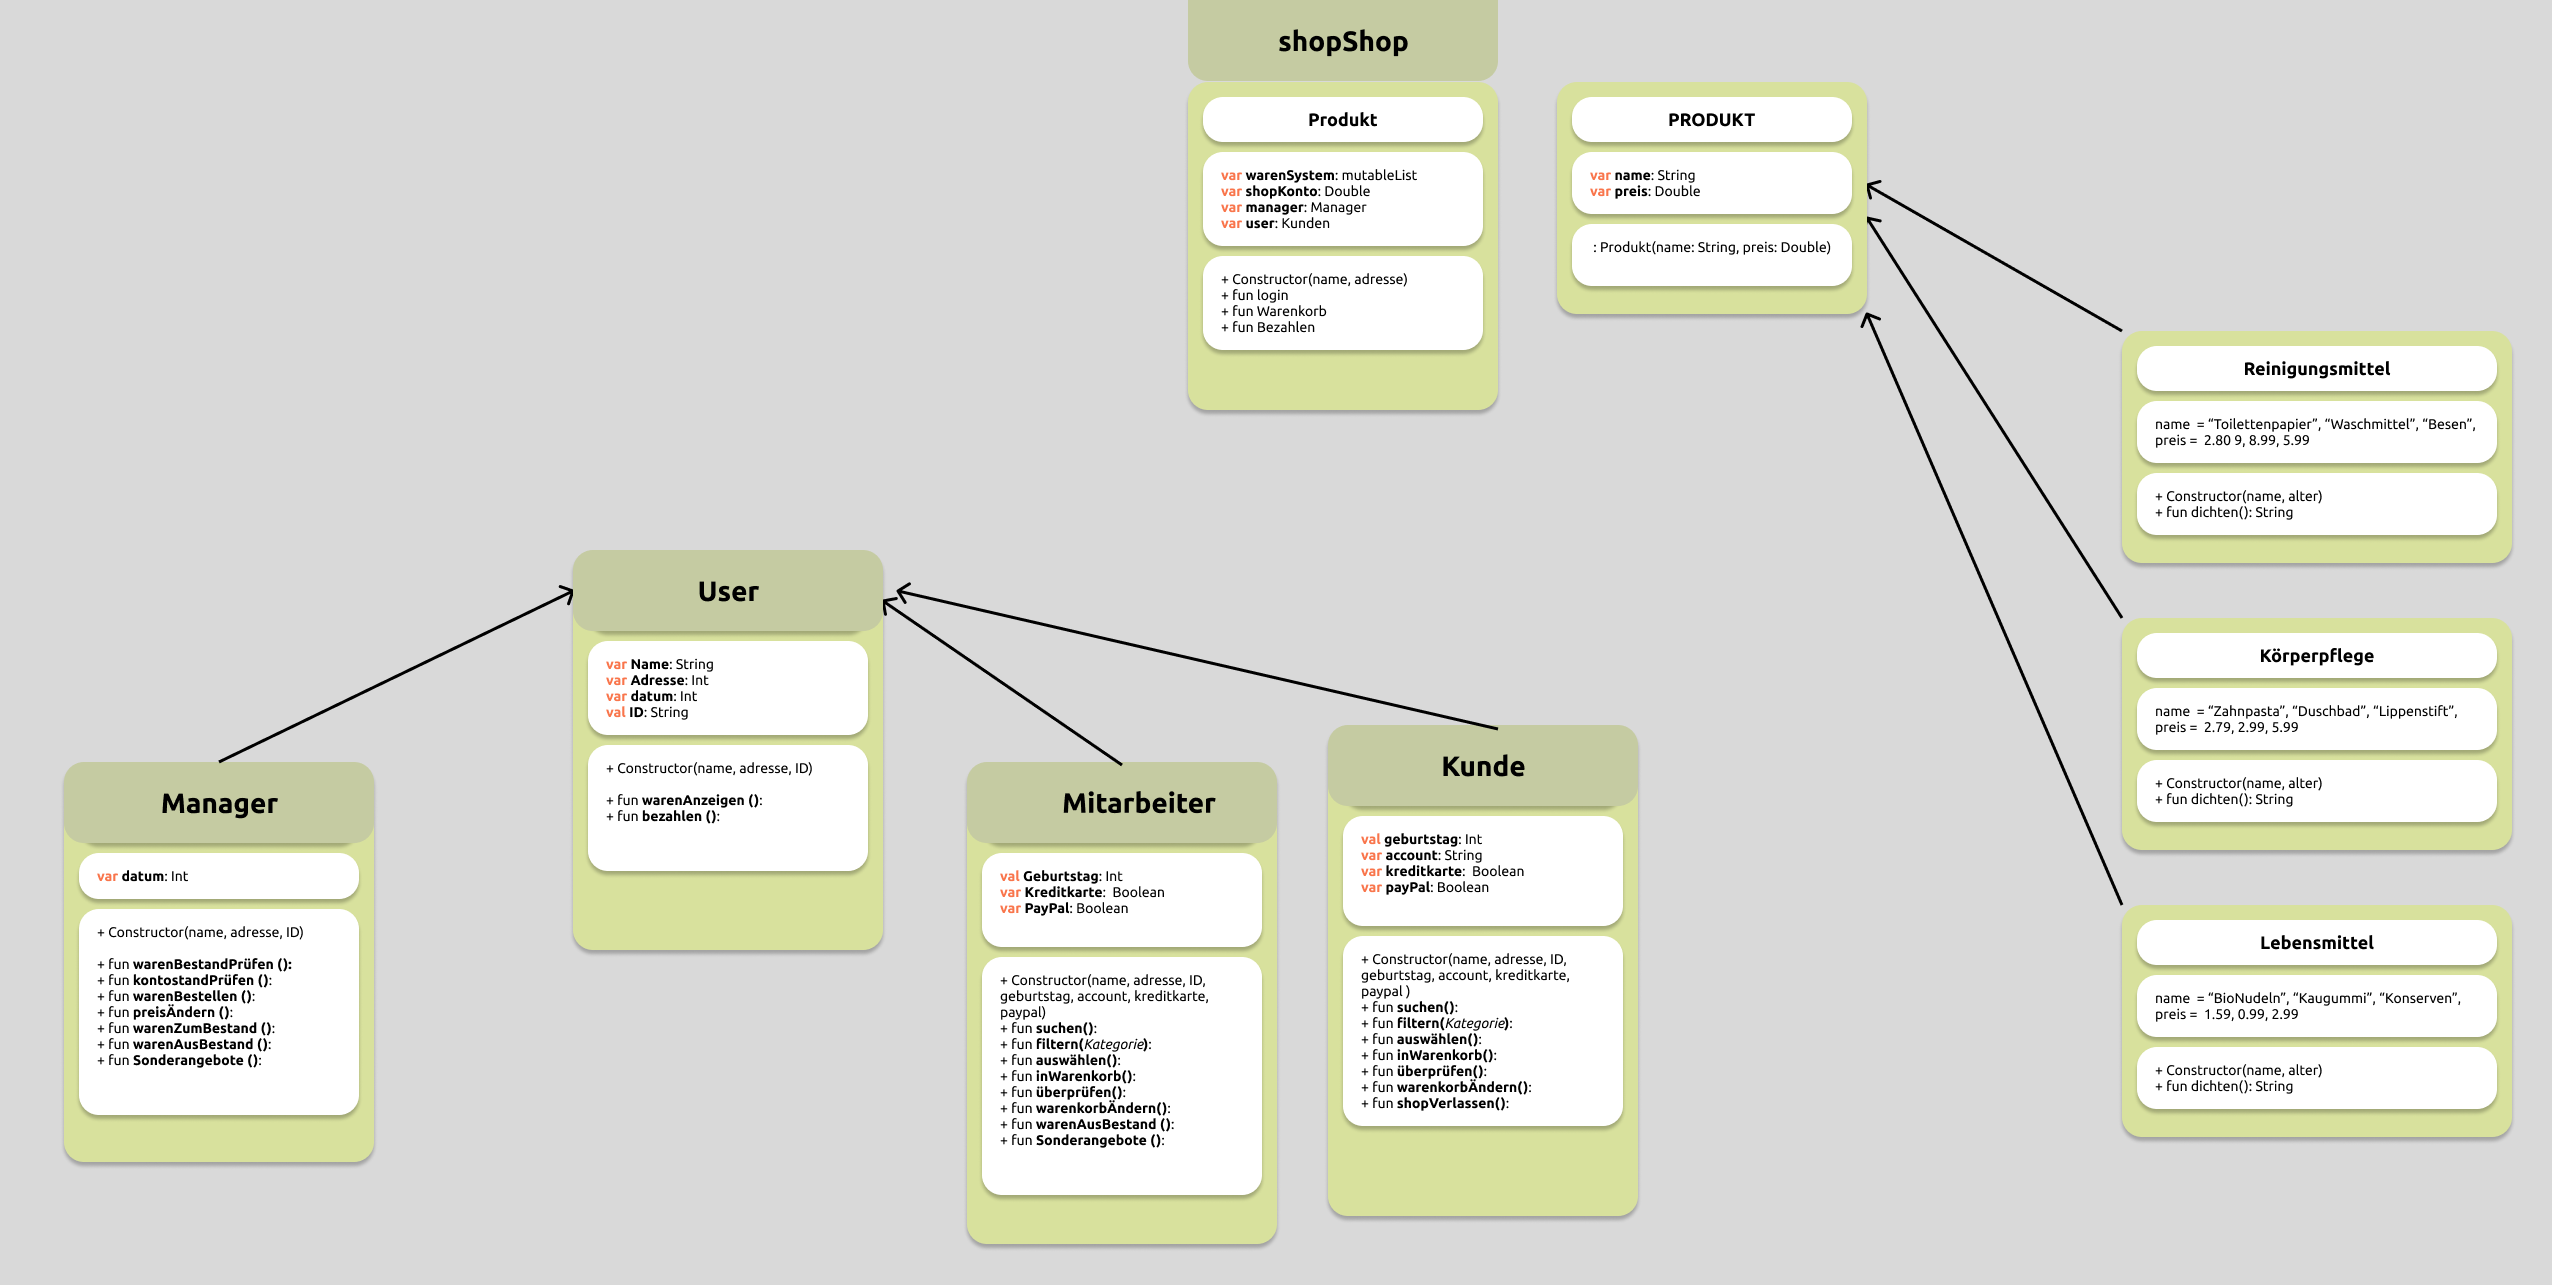
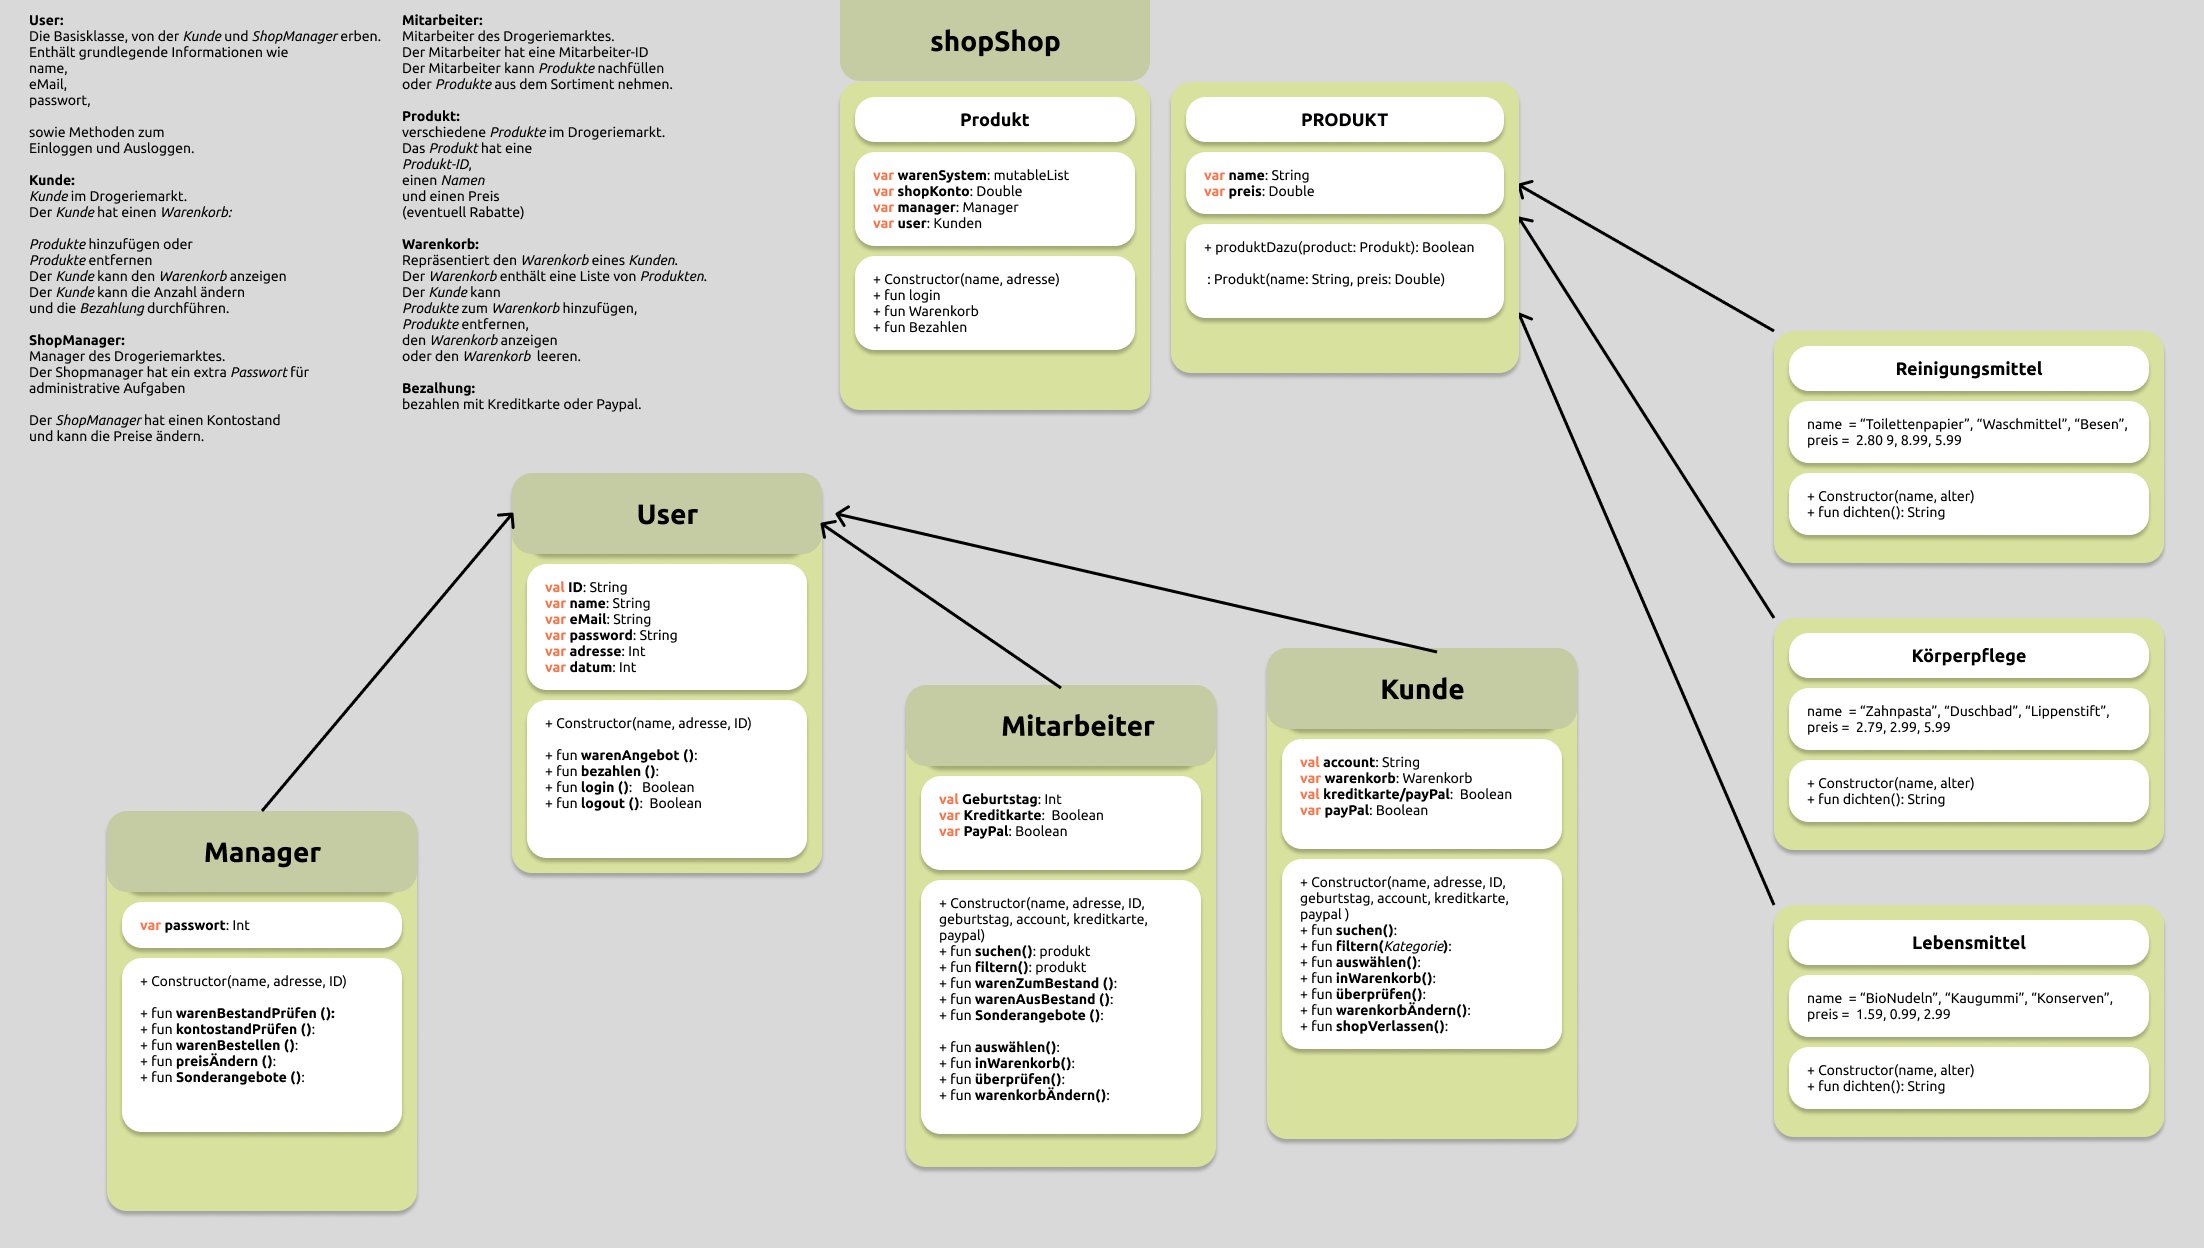
0613 21.07

diff --git a/src/main/kotlin/02 utilities.kt b/src/main/kotlin/02 utilities.kt
@@ -1,0 +1,74 @@
+/*
+fun main(args: Array<String>) {
+    println("Hello World!")
+
+    // Try adding program arguments via Run/Debug configuration.
+    // Learn more about running applications: https://www.jetbrains.com/help/idea/running-applications.html.
+    println("Program arguments: ${args.joinToString()}")
+}*/
+
+/*
+fun wordsInText(){
+    val suchWort = "Und"
+    val text = "Manchmal geschieht es in tiefer Nacht, " +
+            "Daß der Wind wie ein Kind erwacht, " +
+            "Und er kommt die Allee allein " +
+            "Leise, leise ins Dorf herein. " +
+            "Und er tastet bis an den Teich, " +
+            "Und dann horcht er herum: " +
+            "Und die Häuser sind alle bleich, " +
+            "Und die Eichen sind stumm … " +
+            "\n"
+    val wortListe = text.split(' ').toMutableList()
+    if (suchWort in wortListe) {
+        wortListe.retainAll(listOf(suchWort))
+        println("Das Wort ist ${wortListe.size} mal im text")
+    }*/   // Beispiel Wörter im Text: Zählen wie oft ein Wort im Text vorkommt
+
+/*fun warenAngebot() {
+
+    var movies: MutableList<String> = mutableListOf("Midsommar", "Dune", "Mulholland Drive", "Interstellar")
+    var prices: MutableList<Double> = mutableListOf(4.99, 5.99, 2.99, 7.99)
+
+    verkaufen(1, movies, prices, 50.0)
+    verkaufen(2, movies, prices, 60.0)
+    addMovie(movies, prices, "The Batman", 19.99)
+    verkaufen(3, movies, prices, 60.0)
+
+}*/   // Warenangebot (T13)
+
+/*  fun printRandomZahl(){
+    println(randomZahlInt())
+
+    fun randomZahlInt(): Int{
+    var zahlenListe: IntRange = (1..10)
+    var zahl = zahlenListe.random()
+    return zahl
+}
+}*/   // Random Zahl (Int / Double)
+
+/*fun rundung(zahl: Double, nachkommastellen: Int = 2): Double {
+
+        Hiermit implementieren wir endlich unsere Rundungsfunktion!
+        Diese Rundungsfunktion basiert auf folgende Funktionsweise:
+            1 Nachkommastelle: mal 10 rechnen, runden, geteilt durch 10     (faktor: 10)
+            2 Nachkommastellen: mal 100 rechnen, runden, geteilt durch 100  (faktor: 10 * 10 = 100)
+            3 Nachkommastellen: mal 1000, usw..                             (faktor: 10 * 10 * 10 = 1000)
+        D.h die Anzahl der Nachkommastellen ist verbunden mit dem Faktor den wir benötigen.
+        Der Faktor errechnet sich mit einer Potenz von 10 hoch der Anzahl der Nachkommastellen.
+
+        Die Funktion benutzt 2 Parameter:
+            - zahl: das ist die Zahl die wir runden möchten
+            - nachkommastellen: das gibt an, auf wieviele Nachkommastellen möchten wir runden
+
+        Als Rückgabewert gibt die Funktion die gerundete Zahl zurück.
+    val faktor = 10.0.pow(nachkommastellen)
+
+    var gerundeteZahl = zahl * faktor
+    gerundeteZahl = round(gerundeteZahl)
+    gerundeteZahl /= faktor         // gerundeteZahl = gerundeteZahl / faktor
+
+    return gerundeteZahl
+}*/   // implementieren der Rundungsfunktion!
+
+

diff --git a/src/main/kotlin/01 test.kt b/src/main/kotlin/01 test.kt
@@ -1,0 +1,21 @@
+import Waren.Produkt
+
+fun main(){
+
+    var produktLeben1 = Produkt("Milch, haltbare Alpenmilch, 3,5% Fett, laktosefrei, 1 l", 1.65, 4.9)
+    var produktLeben2 = Produkt("EXTRA Kaugummi, Blueberry, 50 St", 1.85, 4.6)
+    var produktLeben3 = Produkt("Fertiggericht italienische Ravioli mit Gemüsefüllung, 270 g", 2.45, 4.3)
+
+    var produktReini1 = Produkt("Toilettenpapier Recycling 3-lagig, 16 St", 6.15, 4.7)
+    var produktReini2 = Produkt("Colorwaschmittel Power Caps, 40 Wl", 8.95,4.8)
+    var produktReini3 = Produkt("Vileda Ultramax Bodenwischer Komplett Set", 41.51, 4.4)
+
+    var produktKörper1 = Produkt("Ecodenta Zahnpasta Ohne Fluorid Sensitivity Relief 75 ml ",7.47 ,4.2)
+    var produktKörper2 = Produkt("Axe 3in1 Duschgel & Shampoo 250 ml  sixPack", 14.70 ,4.6)
+    var produktKörper3 = Produkt("Lippenstift Velvet Matt Berry Nude, 4,5 g", 8.75,3.5)
+
+
+    println("${ produktKörper3 }")
+
+
+}

diff --git a/src/main/kotlin/USER/user.kt b/src/main/kotlin/USER/user.kt
@@ -1,0 +1,23 @@
+package USER
+
+open class user {
+
+    val id: Int = 1
+    val name: String = ""
+    val eMail: String = ""
+    val password: String = ""
+    val adresse: String = ""
+    var datum: String = ""
+    fun login(){
+    }
+    fun logout(){
+    }
+    fun produkt(){
+    }
+    fun bezahlen(){
+    }
+
+}
+
+
+

diff --git a/src/main/kotlin/Waren/Produkt.kt b/src/main/kotlin/Waren/Produkt.kt
@@ -1,0 +1,14 @@
+package Waren
+
+class Produkt(var name: String, var preis: Double, var kundenRezension: Double) {
+    init {
+/*      Code kann nicht lose in Klasse stehen, nur:
+        - Eigenschaften
+        - Konstruktoren
+        - Methoden*/
+/*        println("Produkt  wurde erstellt")*/
+    }
+
+
+
+}

diff --git a/src/main/kotlin/USER/manager.kt b/src/main/kotlin/USER/manager.kt
@@ -1,4 +1,22 @@
 package USER
 
 class manager {
+    var passwordAdmin: String =""
+
+    fun passwordAdmin(){
+    }
+    fun warenbestandPrüfen(){
+    }
+
+    fun kontostandstandPrüfen(){
+    }
+    fun warenBestellen(){
+    }
+    fun preiseÄndern(){
+    }
+
+    fun sonderAngebote(){
+    }
+
+
 }

diff --git a/src/main/kotlin/USER/mitarbeiter.kt b/src/main/kotlin/USER/mitarbeiter.kt
@@ -1,4 +1,19 @@
 package USER
 
 class mitarbeiter {
+
+    val geburtstag: String = ""
+
+    fun warenZumBestand(){
+    }
+
+    fun warenAusBestand(){
+    }
+
+    fun suchen() {
+    }
+
+    fun filtern() {
+    }
+
 }

diff --git a/src/main/kotlin/Waren/Reinigungsmittel.kt b/src/main/kotlin/Waren/Reinigungsmittel.kt
@@ -1,0 +1,8 @@
+package Waren
+
+class Reinigungsmittel() {
+
+    init {
+        println("Produkt wurde erstellt")
+    }
+}

diff --git a/src/main/kotlin/Waren/Lebensmittel.kt b/src/main/kotlin/Waren/Lebensmittel.kt
@@ -1,0 +1,10 @@
+package Waren
+
+class Lebensmittel {
+    init {
+        println("Produkt wurde erstellt")
+    }
+
+
+
+}

diff --git a/src/main/kotlin/Waren/Körperpflege.kt b/src/main/kotlin/Waren/Körperpflege.kt
@@ -1,0 +1,8 @@
+package Waren
+
+class Körperpflege {
+/*
+    var produkt: MutableList(){
+
+    }*/
+}

diff --git a/src/main/kotlin/USER/kunde.kt b/src/main/kotlin/USER/kunde.kt
@@ -1,4 +1,5 @@
 package USER
 
 class kunde {
+
 }

diff --git a/src/main/kotlin/00 Main.kt b/src/main/kotlin/00 Main.kt
@@ -1,0 +1,2 @@
+import Waren.Produkt
+

diff --git a/README.md b/README.md
@@ -81,3 +81,6 @@ Dieses README dient außerdem als Coding-Tagebuch.
 
 Projekt auf GitHub:
 **https://github.com/GitteHeino/M2_Abschlussarbeit.git**
+
+
+![image: ClassDiagram](Klassendiagramm.png)
